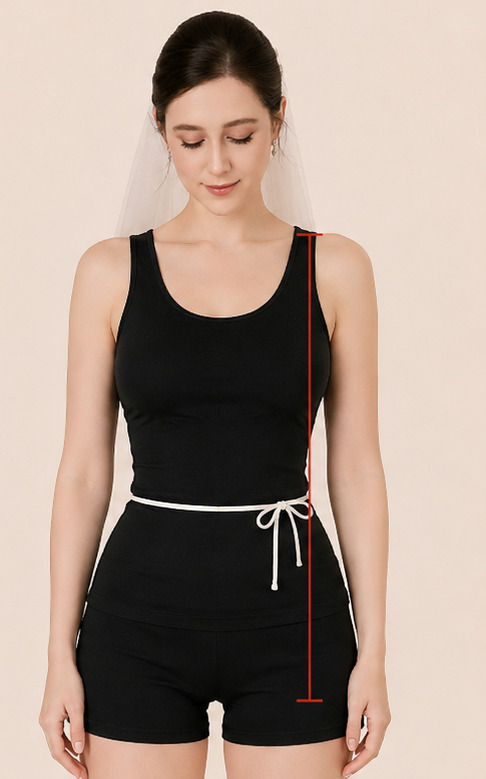
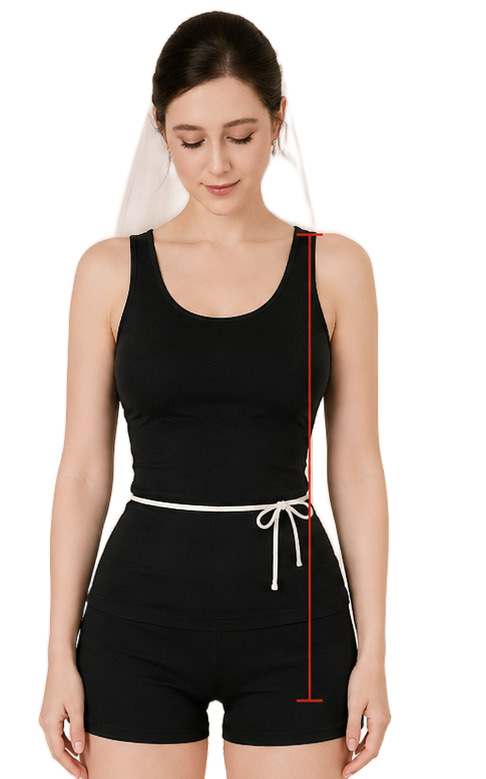
Trang cach do: 3 anh dieu kien -> nen trang, thu nho lai

diff --git a/cach-do-so-do.html b/cach-do-so-do.html
@@ -192,7 +192,7 @@ src="https://www.facebook.com/tr?id=1358640082651240&ev=PageView&noscript=1"
   /* 3 điều kiện làm đổi số đo */
   .dieu-kien{display:grid;grid-template-columns:repeat(auto-fit,minmax(230px,1fr));gap:clamp(14px,2vw,26px);margin:clamp(26px,4vw,44px) 0}
   .dieu-kien figure{margin:0;background:var(--paper);box-shadow:var(--shadow)}
-  .dieu-kien img{width:100%;aspect-ratio:486/780;object-fit:cover;display:block}
+  .dieu-kien img{width:100%;height:clamp(300px,34vw,420px);object-fit:contain;display:block;background:var(--paper)}
   .dieu-kien figcaption{padding:16px 20px 20px}
   .dieu-kien .dk-so{
     font-family:var(--sans);font-weight:500;font-size:.62rem;letter-spacing:.2em;text-transform:uppercase;
